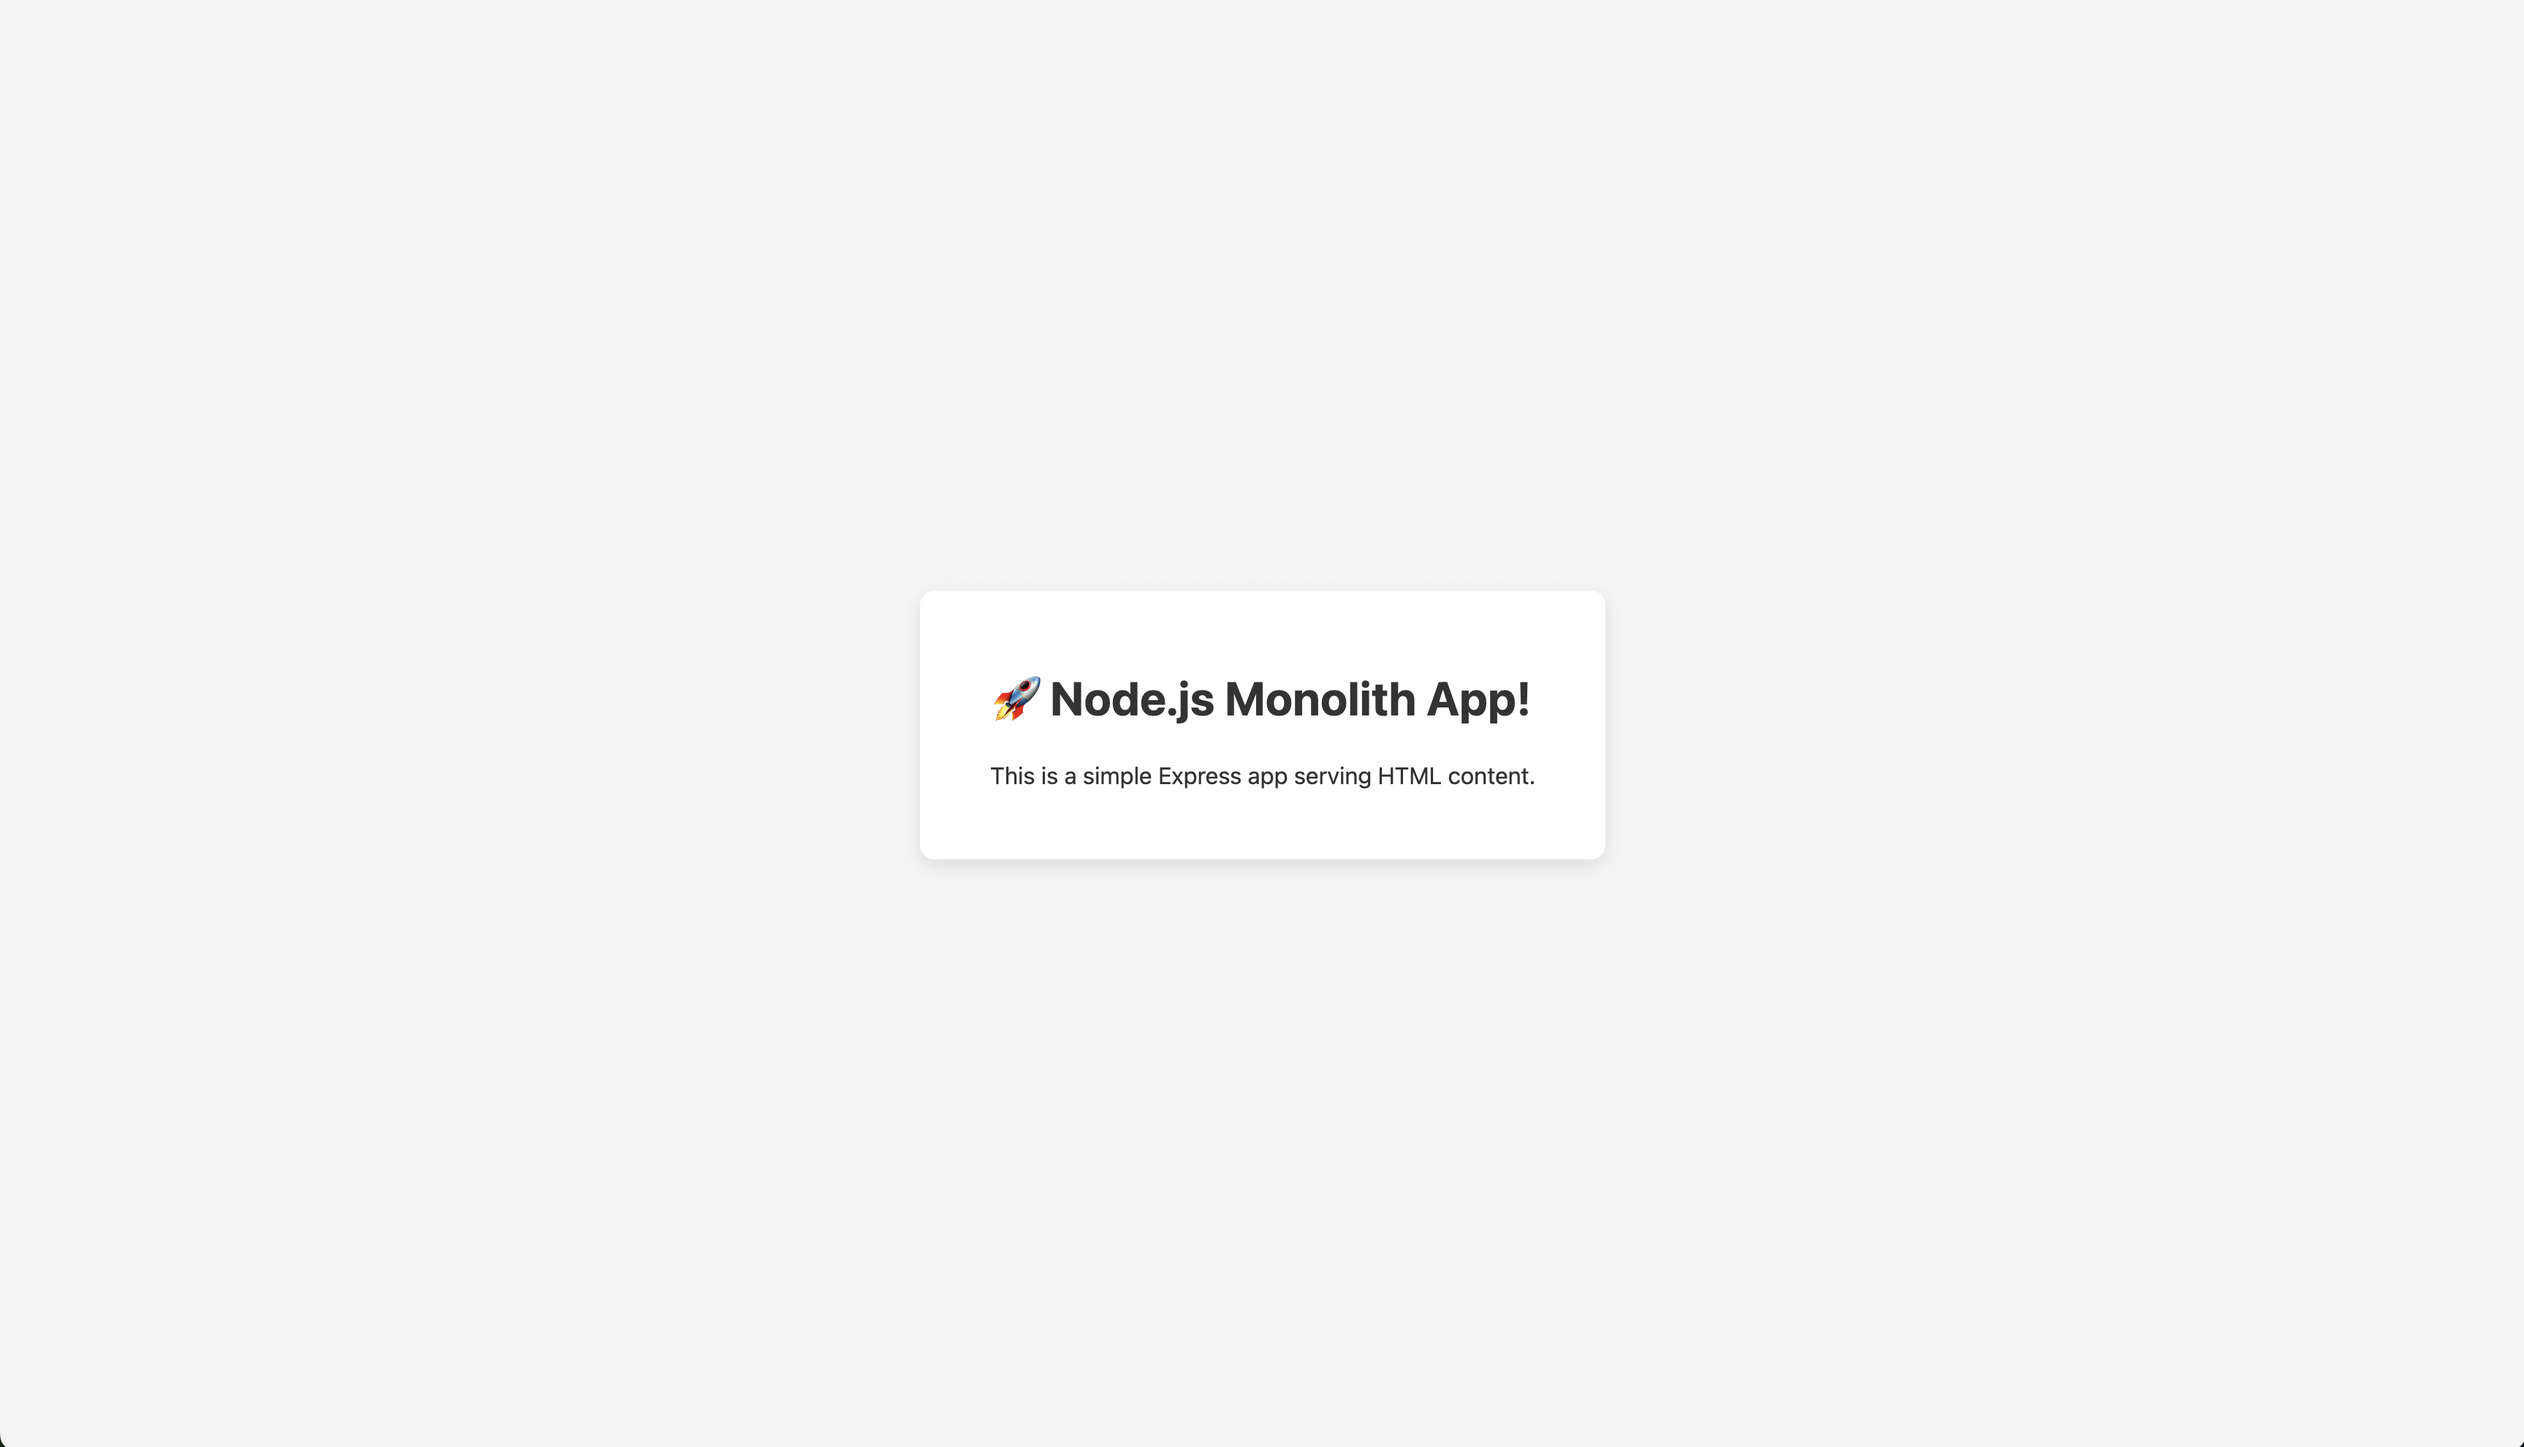
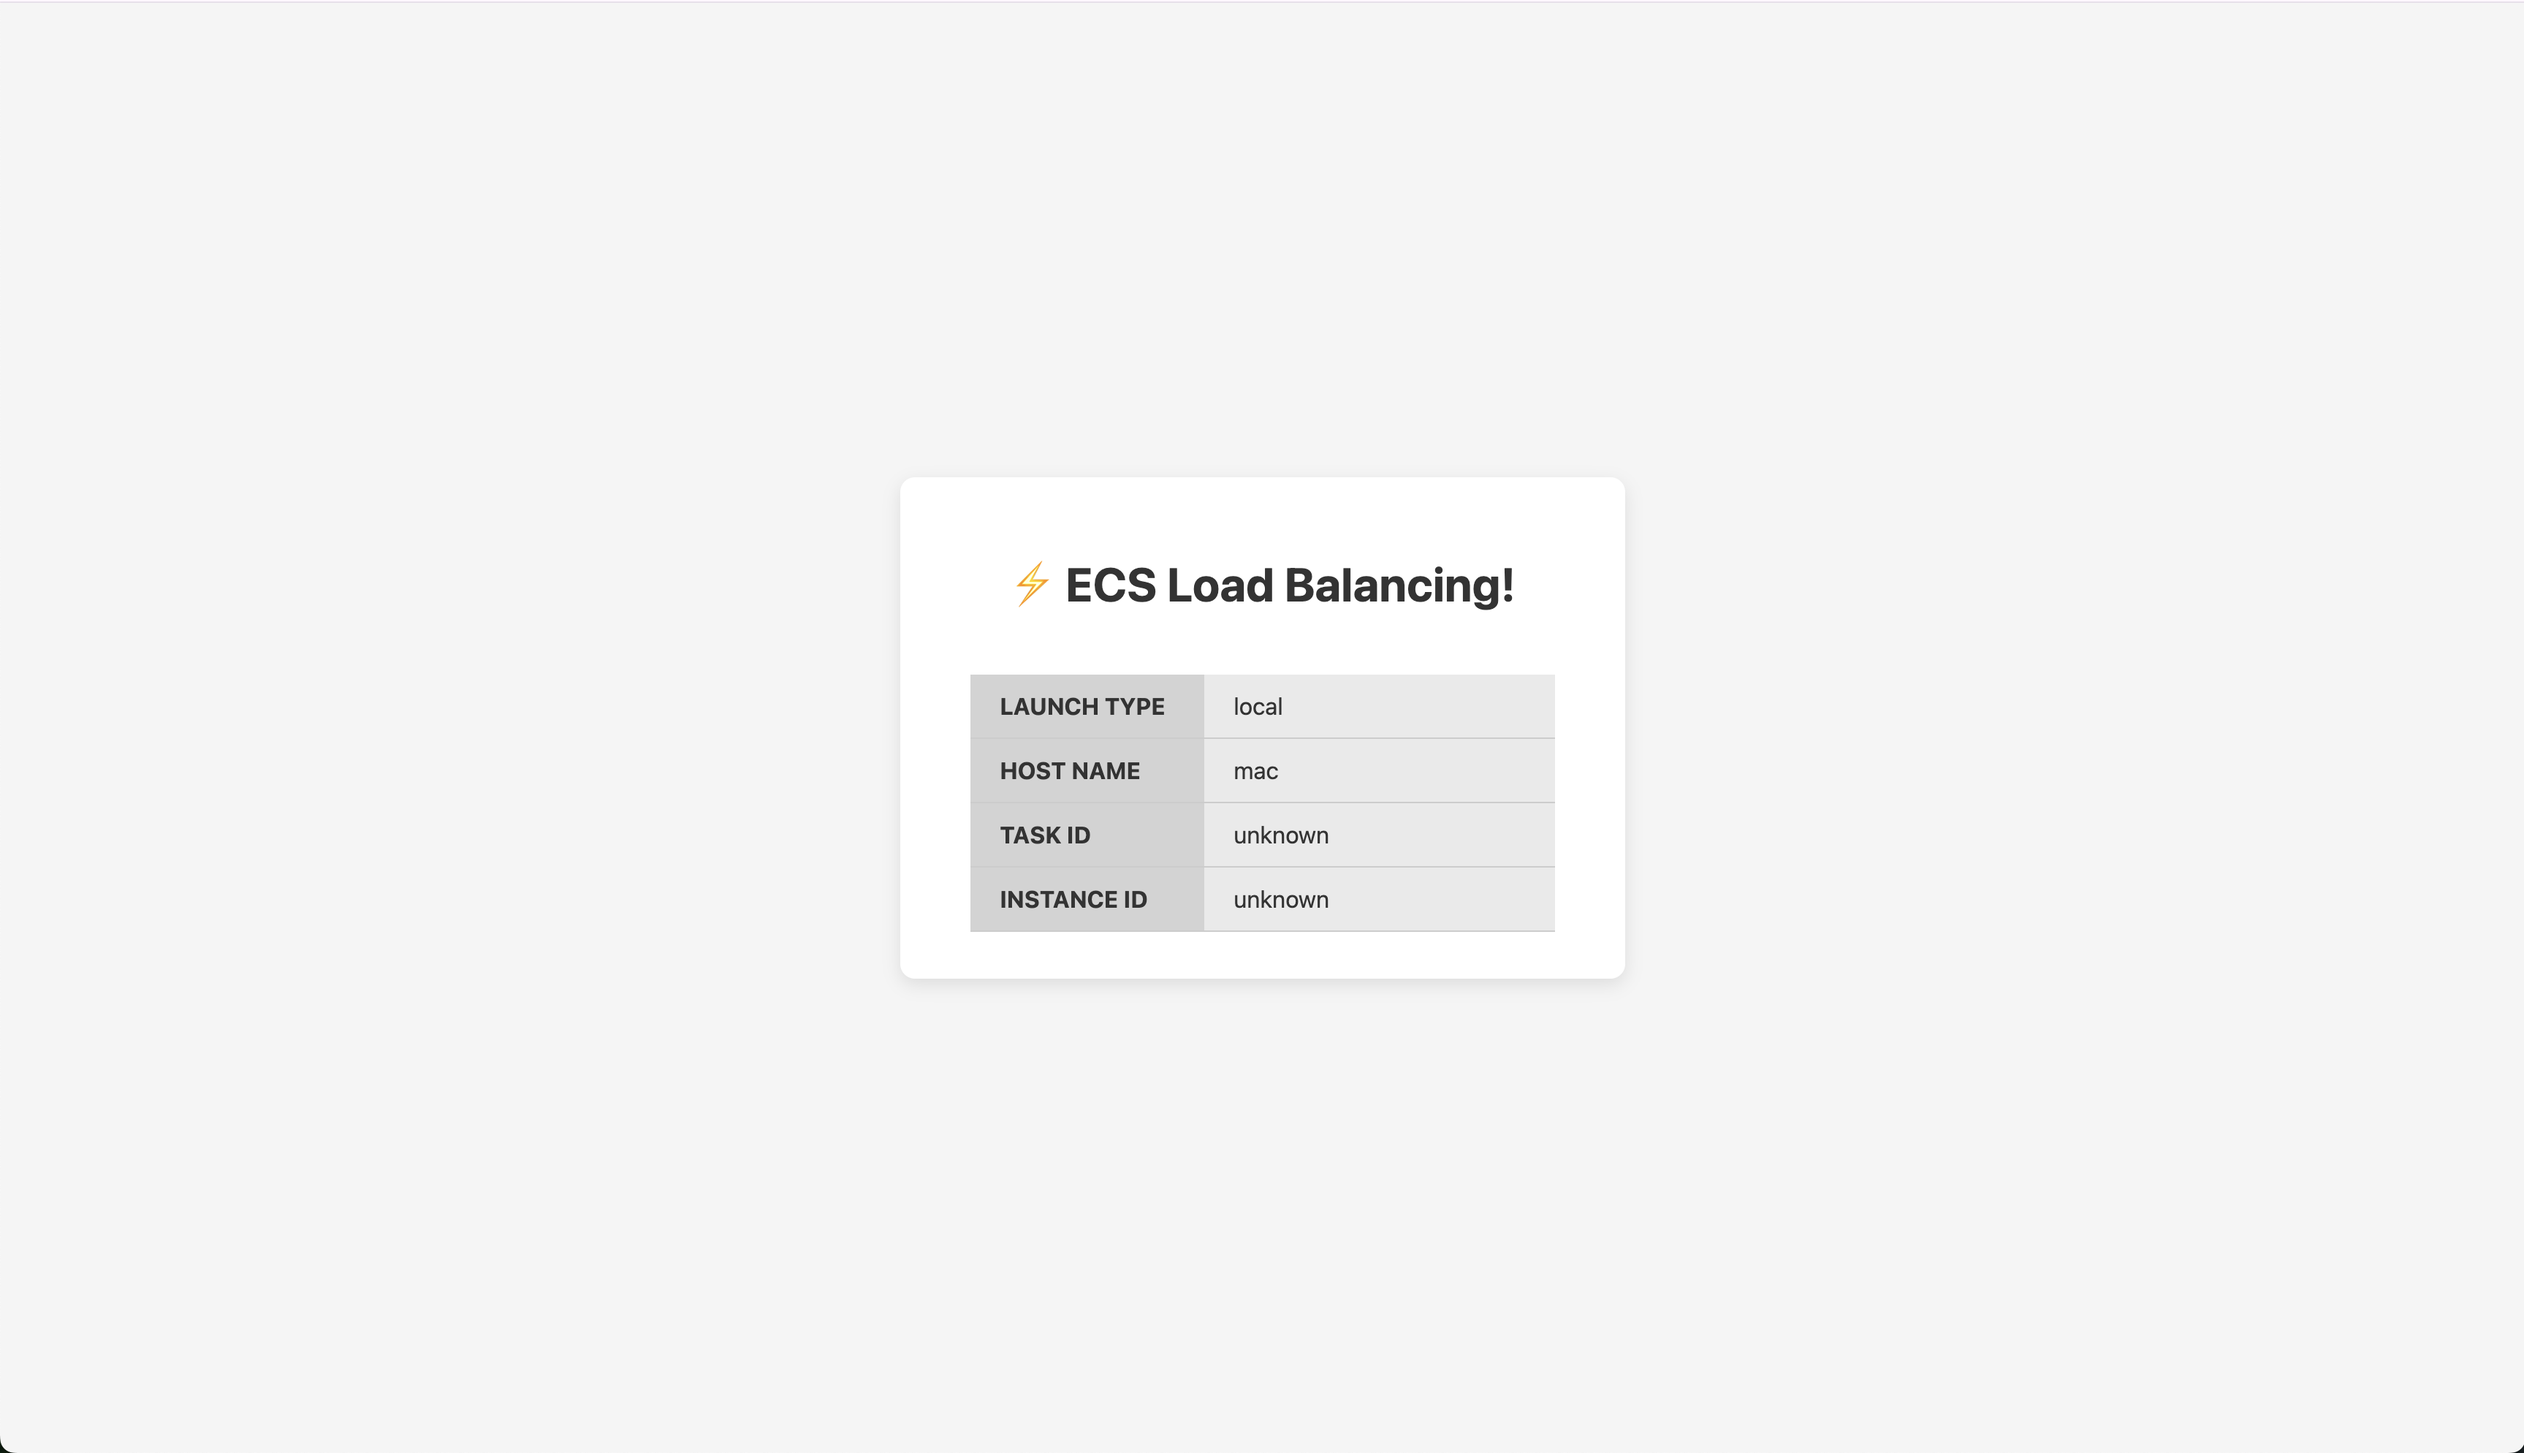
[LIRW] - App updated to show ECS load balancing

Changed region(s): [[0.3717, 0.4621, 0.6196, 0.647], [0.4027, 0.3697, 0.6196, 0.4313]]

diff --git a/index.js b/index.js
@@ -1,14 +1,67 @@
 const express = require('express');
 const path = require('path');
+const os = require("os");
 
 const app = express();
 const PORT = 3200;
+
+// ECS metadata endpoint (works in both Fargate & EC2)
+const ECS_METADATA_URL = process.env.ECS_CONTAINER_METADATA_URI_V4 || process.env.ECS_CONTAINER_METADATA_URI;
+
+// EC2 metadata endpoint (only available for EC2 launch type)
+const EC2_METADATA_URL = "http://169.254.169.254/latest/meta-data/instance-id";
+
+const hostname = os.hostname() || "Unknown";
 
 app.use(express.json());
 app.use(express.static(path.join(__dirname, 'public')));
 
 app.get('/', (req, res) => {
   res.sendFile(path.join(__dirname, 'views', 'index.html'));
+});
+
+app.get("/metadata", async (req, res) => {
+  let instanceId = "Unknown";
+  let taskId = "Unknown";
+  let launchType = "local";
+
+  try {
+    // Try ECS Task Metadata
+    if (ECS_METADATA_URL) {
+      launchType = "Fargate";
+
+      const response = await fetch(`${ECS_METADATA_URL}/task`);
+      const data = await response.json();
+
+      // Extract ECS Task ID
+      if (data?.TaskARN) {
+        taskId = data.TaskARN.split("/").pop();
+      }
+    }
+
+    // Try EC2 Instance Metadata
+    try {
+      const response = await fetch(EC2_METADATA_URL, { timeout: 1000 });
+      if (response.ok) {
+        launchType = "EC2";
+        instanceId = await response.text();
+      }
+    } catch {
+      // No EC2 metadata
+      console.log("No EC2 metadata");
+    }
+
+    res.json({
+      launchType,
+      instanceId,
+      taskId,
+      hostname,
+    });
+
+  } catch (err) {
+    console.error("Metadata fetch error:", err);
+    res.status(500).json({ error: "Unable to fetch metadata" });
+  }
 });
 
 app.listen(PORT, () => {

diff --git a/views/index.html b/views/index.html
@@ -8,8 +8,49 @@
 </head>
 <body>
   <div class="container">
-    <h1>🚀 Node.js Monolith App!</h1>
-    <p>This is a simple Express app serving HTML content.</p>
+    <h1>⚡ ECS Load Balancing!</h1>
+    
+    <table>
+      <tr>
+        <td class="label">LAUNCH TYPE</td>
+        <td class="value" id="launchType">Loading...</td>
+      </tr>
+      <tr>
+        <td class="label">HOST NAME</td>
+        <td class="value" id="hostname">Loading...</td>
+      </tr>
+      <tr>
+        <td class="label">TASK ID</td>
+        <td class="value" id="taskId">Loading...</td>
+      </tr>
+      <tr>
+        <td class="label">INSTANCE ID</td>
+        <td class="value" id="instanceId">Loading...</td>
+      </tr>
+    </table>
   </div>
+
+  <script>
+    async function fetchMetadata() {
+      try {
+        const res = await fetch("/metadata");
+        const data = await res.json();
+
+        document.getElementById("launchType").textContent = data.launchType;
+        document.getElementById("instanceId").textContent = data.instanceId;
+        document.getElementById("taskId").textContent = data.taskId;
+        document.getElementById("hostname").textContent = data.hostname;
+      } catch (err) {
+        console.error("Error fetching metadata:", err);
+        document.getElementById("launchType").textContent = "Error";
+        document.getElementById("instanceId").textContent = "Error";
+        document.getElementById("taskId").textContent = "Error";
+        document.getElementById("hostname").textContent = "Error";
+      }
+    }
+
+    window.onload = fetchMetadata;
+  </script>
+
 </body>
 </html>

diff --git a/public/style.css b/public/style.css
@@ -16,3 +16,34 @@ body {
   box-shadow: 0 4px 12px rgba(0, 0, 0, 0.1);
   text-align: center;
 }
+
+h1 {
+  margin-bottom: 40px;
+}
+
+table {
+  margin: 0 auto;
+  border-collapse: collapse;
+  min-width: 400px;
+}
+
+td {
+  padding: 12px 20px;
+  border-bottom: 1px solid #cccccc; /* bottom border for rows */
+}
+
+td.label {
+  background-color: #d3d3d3;
+  font-weight: bold;
+  text-transform: uppercase;
+  text-align: left;
+  width: 40%;
+}
+
+td.value {
+  background-color: #eaeaea;
+  text-transform: lowercase;
+  text-align: left;
+  width: 60%;
+  word-break: break-word;
+}
